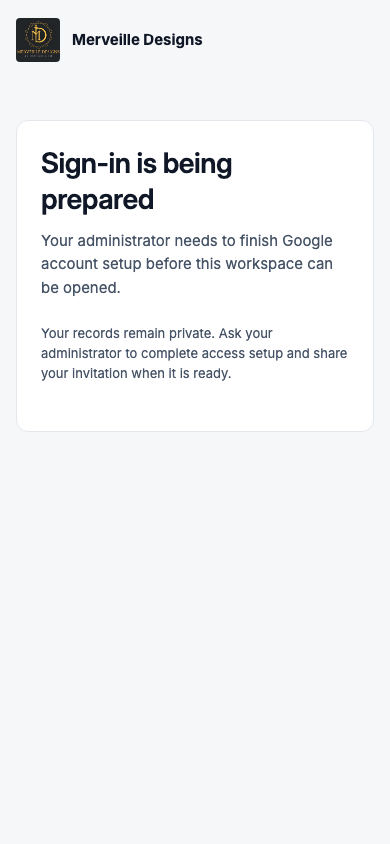
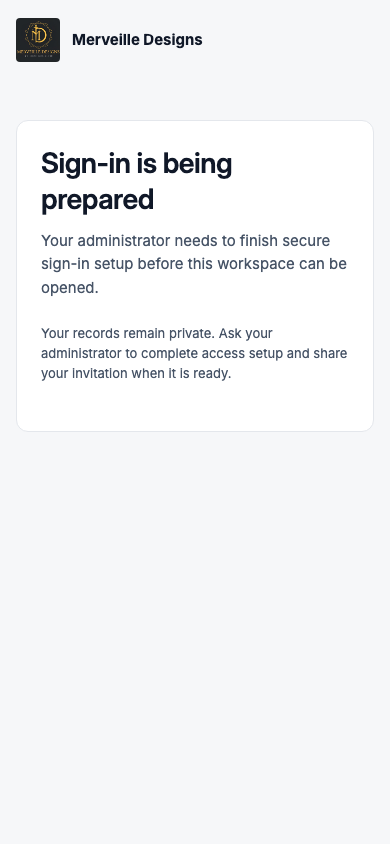
Record R05 operations evidence and company-account handoff

Changed region(s): [[0.0923, 0.2773, 0.8923, 0.3697]]

diff --git a/docs/operations/real-account-handoff.md b/docs/operations/real-account-handoff.md
@@ -1,10 +1,12 @@
 # Real-account testing handoff
 
+**Latest direction:** The user is moving toward Cloudflare-managed login without Google Cloud configuration, and a separate company-owned Cloudflare deployment. See [company account setup](company-account-setup.md). Staging still uses the previously verified Google method until the prepared native-login policy change is confirmed, saved and tested. The policy-scoped automation credential is prepared for review, not created/configured yet. Historical Google evidence below remains valid for that environment/version only.
+
 The coding agent owns migration/build/regression commands. Jay and the pilot team use their own Google accounts in a browser. No persona selection or impersonation is supported.
 
 ## Current environment
 
-Staging deployment is explicitly authorized for R05. The operator created an isolated APAC D1 database (`merveille-data-staging`) and private R2 bucket (`merveille-files-staging`), and applied all 20 migrations. The remote reconciliation view reports zero errors. Existing preview/production resources were not modified.
+Staging deployment is explicitly authorized for R05. The operator created an isolated APAC D1 database (`merveille-data-staging`) and private R2 bucket (`merveille-files-staging`), and applied all 21 migrations. The remote reconciliation view reports zero errors. Existing preview/production resources were not modified.
 
 The protected staging origin is [merveille-web-staging.rhelo-bible.workers.dev](https://merveille-web-staging.rhelo-bible.workers.dev). Worker version `1da9cec8-e065-4e86-8c46-66e01db7be68` contains the hosted invitation-parser correction. Production and old preview are unchanged. Preview URLs remain disabled; no custom Worker routes exist; the file bucket has no public managed domain.
 
@@ -18,19 +20,21 @@ Jay's bootstrap was explicitly confirmed and accepted through the actual Google-
 
 ## Remaining pilot inputs and admission
 
-Supply the other pilot members' exact Google emails and deliberate roles privately. Do not add identities or addresses to public documentation. The operator must add each email to **both** Google Auth Platform → Audience → Test users and the dedicated staging Access policy, then an active ADMIN creates the application invitation with explicit grants and confirms admission READY. Each tester accepts their own link. No invitation mail sender is configured; copy links privately.
+Supply the other pilot members' exact sign-in emails and deliberate roles privately. The native-login policy amendment and a credential restricted to the single staging invitation policy are prepared in the browser, awaiting required action-time confirmation. Neither has been saved/issued. Existing Google sign-in remains working; the new One-time PIN provider is not yet attached to this app.
 
-Automatic Access reconciliation is not configured: the current Wrangler OAuth lacks Access-management scope, and no extra long-lived Access API token was created. Invitations therefore remain awaiting setup until the operator configures exact-email admission and confirms it. A future narrowly scoped policy credential can enable reconciliation; credentials belong in platform secrets. Google testing-mode user admission remains a separate provider step.
+Automatic admission is implemented on invitation creation/reissue/revocation and suspension, plus a scheduled retry path and browser **Retry invitation access** action. It is not configured until the policy-only credential is installed in platform secrets and its real provider update is verified. No credential has been created. The implementation refuses a shared policy, preserves other MFA/session/approval and exclusion controls, serializes updates, and marks only the synchronized invitation snapshot ready. Provider failure does not undo a saved invitation or restore revoked application privileges.
 
-Second-admin delegation, other actual-role tests, revocation with an open session, real private-file transfers and full business UAT remain pending. No real client records or provider messages were used.
+After the approved Cloudflare-native method and policy credential are verified, routine invitations should be administered entirely through People & access. Email-code users do not need Google test-user registration. Each person accepts as themselves with the exact invited address. No invitation mail sender is configured; links are copied privately. Current staging still requires the old provider's admission until migration finishes; do not tell new users that email-code login is already live.
+
+Second-admin delegation, other actual-role tests, revocation with an open session, real project-file transfers and full business UAT remain pending.
 
 ## Setup the operator must complete
 
 1. Use the authorized isolated staging resources and canonical HTTPS hostname above. Keep the existing production records intact. Configure the named Wrangler environment with real resource IDs and the exact `APP_ORIGIN`; never deploy placeholder IDs or the local default to a hosted target.
-2. Set up Google through Cloudflare Access using [Cloudflare's personal Google account instructions](https://developers.cloudflare.com/cloudflare-one/integrations/identity-providers/google/). Gmail and Workspace addresses work. Use identity/profile scopes only; no Gmail/mailbox access. Store Google client secrets in the provider dashboard, not Git or chat. Register the actual team origin and callback `https://<team>.cloudflareaccess.com/cdn-cgi/access/callback`.
-3. Protect **every** review ingress/hostname with the selected Google provider and exact invited emails; no domain-wide/everyone/bypass policies. Keep workers.dev/version URLs disabled unless explicitly protected. Configure issuer and audience. JWT verification fetches only that trusted issuer's JWKS and checks RS256 signature, human subject/email, issuer, audience and time claims.
-4. Provision a dedicated exact-email Access policy for the app. Configure the optional narrowly scoped reconciliation credential in platform secret storage (`ACCESS_API_TOKEN`), plus account/app/policy/Google-IdP IDs. Scheduled reconciliation updates that dedicated policy, retains pending errors and never treats D1 writes as edge provisioning. An operator may instead confirm the exact-email admission manually; the invitation remains “Awaiting access setup” until confirmed. Application revocation is immediate even if edge synchronization fails. Operator session revocation remains part of the provider procedure.
-5. Apply migrations 0012–0020 to a reviewed copy of existing data, then the authorized review environment. Existing duplicate journals/payroll periods or duplicate project snag references intentionally fail protection installation; inspect the read-only `financial_reconciliation_errors` view and reconcile with the responsible administrator. Do not delete or invent money to make migration succeed. Review the local upgrade/restore evidence before remote migration.
+2. Follow the latest [company account setup](company-account-setup.md). Cloudflare-managed email-code sign-in removes the Google Cloud dependency; native Cloudflare-account sign-in is a distinct alternative. Configure the selected provider deliberately, verify the actual login and retain signed Access JWT validation. The earlier verified Google setup remains historical evidence, not a required company setup step.
+3. Protect **every** review ingress/hostname with the selected identity provider and exact invited emails; no domain-wide/everyone/bypass policies. Keep workers.dev/version URLs disabled unless explicitly protected. Configure issuer and audience. JWT verification fetches only that trusted issuer's JWKS and checks RS256 signature, human subject/email, issuer, audience and time claims.
+4. Provision a dedicated exact-email Access policy for the app. Configure the optional narrowly scoped reconciliation credential in platform secret storage (`ACCESS_API_TOKEN`), plus account/app/policy/selected-IdP IDs. Scheduled reconciliation updates that dedicated policy, retains pending errors and never treats D1 writes as edge provisioning. An operator may instead confirm the exact-email admission manually; the invitation remains “Awaiting access setup” until confirmed. Application revocation is immediate even if edge synchronization fails. Operator session revocation remains part of the provider procedure.
+5. Apply migrations 0012–0021 to a reviewed copy of existing data, then the authorized review environment. Existing duplicate journals/payroll periods or duplicate project snag references intentionally fail protection installation; inspect the read-only `financial_reconciliation_errors` view and reconcile with the responsible administrator. Do not delete or invent money to make migration succeed. Review the local upgrade/restore evidence before remote migration.
 6. Prepare the private setup JSON with the exact email and approved review origin; set `accessAdmissionConfirmed:true` only after real admission is verified. Run `node scripts/bootstrap-admin.mjs staging .private/admin-setup.json` for the intended configured environment. This is an operator-only command, not a public endpoint. It writes a digest-only expiring singleton invitation atomically. The shareable link is written only to `.private/bootstrap-link.txt`. Do not send it in logs or commit it. Successful acceptance cannot be reset by deleting the temporary setup input.
 7. Deploy the reviewed artifact only with target authorization, then validate actual Google admission, alternate ingress denial, invited identity matching, membership revocation and private file/cache behavior. A built bundle or the local fixture browser harness does not prove these hosted properties.
 
@@ -64,4 +68,4 @@ For changed Access subjects, use `scripts/recover-identity.mjs` only with authen
 
 ## Release gate
 
-Hosted Google onboarding, second-admin delegation, all distinct real-role passes, hosted Queue/provider delivery, remote restore remain **blocked/pending**, not passed. Local implementation and tests are evidence for their stated scope only.
+Hosted Native-provider onboarding, second-admin delegation, all distinct real-role passes, hosted Queue/provider delivery, remote restore remain **blocked/pending**, not passed. Local implementation and tests are evidence for their stated scope only.

diff --git a/docs/evidence/remediation/session.md b/docs/evidence/remediation/session.md
@@ -81,3 +81,20 @@ User explicitly authorized isolated protected staging and Google Access setup. S
 - Current gate: protected staging usable by Jay. Other pilot emails/roles requested privately; Google testing and exact-email edge admission plus per-person invitations pending. Access reconciliation token absent; manual operator admission is documented. Jobs/provider/remote restore and full team acceptance remain pending.
 
 Staging configuration and invitation repair source checkpoint: `41370d9`. No personal addresses or OAuth secrets committed. Documentation checker passed after the hosted evidence update.
+
+### R05 independent operations and company-owned deployment amendment
+
+The user changed the authentication goal: remove the Google Cloud/OAuth dependency, make daily people administration browser-only, and ultimately clone/setup the app in the sister/company's own Cloudflare account. Jay's current account remains development/staging. The amendment is recorded in AGENTS, remediation 01/02 and the new company-account operator guide; unchanged authority/workflow rules remain binding.
+
+Source checkpoint `8e834b6`; web Worker `601c9003-2621-4d3f-8b06-a357ba93ea1e`; jobs Worker `c2f4b42c-6fb9-4252-b0bd-546f9f4e4c2c`.
+
+- Account-neutral sign-in/invitation copy and People retry controls are deployed. Invitation create/reissue/revoke and suspension now attempt dedicated-policy reconciliation; provider failure preserves saved application state. Migration 0021 serializes syncs with leases. Only the synchronized snapshot becomes READY; in-flight new invites remain pending, matching revocations complete correctly, and bounded parameter chunks avoid an application user cap. The synchronizer reads the reusable policy, refuses shared policies, and preserves MFA/session/approval, additional Require and Exclude controls. The new provider-neutral `ACCESS_IDP_ID` has a temporary legacy Google fallback for the still-working old staging configuration.
+- `npm test`: 106 tests in 22 files PASS. New real SQLite service case covers concurrent policy updates, in-flight invitation readiness, completed revocation jobs, retained MFA/exclusion controls and shared-policy refusal. One earlier run failed only because an old assertion matched Google-specific wording; changed it to assert the actual WRONG_ACCOUNT error code and reran successfully. `npm run typecheck` and final `npm run build:worker` PASS. Nine isolated workerd permission/money/file/recovery checks pass with all 21 migrations. Three focused local invitation-link/POST cases pass with transport fixtures. Final built local Worker UI harness: 112 checks, no overflow or JavaScript errors; fixtures are not real-person acceptance. Actual hosted People dialog shows the neutral exact-email field and explicit permissions, without submitting an unknown person's invitation.
+- Applied 0021 to isolated remote staging; actual D1 INSERT/ON CONFLICT/RETURNING lease probe passed and removed only its own temporary lease. No users or grants were changed by this probe.
+- Created dedicated staging notification and dead-letter queues. `wrangler deploy --config workers/jobs/wrangler.jsonc --env staging` and `wrangler queues info` verify producer, consumer, retry/DLQ configuration and the 15-minute schedule. Jobs Worker has no public or preview ingress. A fictional WHATSAPP notification for an existing disabled/quarantined identity and a nonexistent obligation was queued through the real Cloudflare Queue. Actual consumer execution outcome was OK with no exceptions; D1 status became SUPPRESSED / ACCESS_OR_OBLIGATION_CHANGED. Re-publishing the same ID left exactly one suppressed record, with no provider message. This verifies actual consumer authorization/idempotency, not forced retry/DLQ or WhatsApp delivery. No real messages sent. Scheduled execution is tracked separately from registration below.
[1 lines of base64/hex data omitted]
+- Cloudflare One-time PIN provider was made available, but the dedicated portal policy draft has NOT been saved and the app has NOT switched providers. Existing verified Google login remains active. Required action-time security confirmation is pending for the native email-code policy switch. A second browser review prepares an account-owned credential restricted to the single staging policy via Specified Access Policies / Individual Access Policy Admin, no other account permissions; it has NOT been created or installed. Therefore automatic admission remains unconfigured, not passed. No claim of a completed nontechnical handoff or actual OTP login is made.
+- Provider isolation review found OpenSEO and Rhelo apps used accept-all-identity-providers. Newly added global providers were inherited there; this was corrected by explicitly selecting only their original Cloudflare provider. Saved configuration success was observed for both; existing email policies, recipients, routes, data and application code were unchanged. New portal methods can no longer appear automatically in those apps. Screenshots of the review and existing-provider isolation are private, not public evidence.
+- Remaining gates: native login/policy credential confirmations and real verification, the sister's/company's separate account installation, exact pilot emails/roles and real multi-user scenarios, forced hosted retry/DLQ/webhook/provider delivery, and populated remote business/file recovery. Existing Google/bootstrap checks remain historical evidence for that provider/version. New company installation gets fresh infrastructure, a new exact-email bootstrap and deliberately separate ADMIN/OWNER/project grants; no credentials or identities are copied by cloning Git.
+
+Final bounded schedule observation: the 00:15 IST poll still showed the probe outbox PENDING, with no scheduled event in the private tail. The configured Cron is deployed but execution is NOT marked passed; recheck propagation/dispatch next session. Queue consumer execution remains independently passed. Final source/build is frozen at the versions above; documentation checker passes.

diff --git a/task.md b/task.md
@@ -6,25 +6,25 @@ Updated 24 November 2026. The application foundation exists on `implement/mervei
 
 | Stage | Work | Implementation | Local verification | Hosted verification | Team acceptance |
 |---|---|---|---|---|---|
-| R00 | Baseline and demo/diagnostic containment | Passed | Passed | Blocked | Not started |
-| R01 | Real Google accounts and admin lifecycle | Passed | Passed | Blocked | Blocked |
-| R02 | Neutral shared UI and reference screens | Passed | Passed | Blocked | Blocked |
-| R03 | Functional integrity, jobs and recovery | Passed | Passed | Blocked | Blocked |
-| R04 | All routes and interactions | Passed | Passed | Blocked | Blocked |
-| R05 | Integrated verification and real-person handoff | Passed: handoff prepared | Passed | Blocked | Blocked |
+| R00 | Baseline and demo/diagnostic containment | Passed | Passed | In progress | Not started |
+| R01 | Real accounts and admin lifecycle | Passed | Passed | In progress | Blocked |
+| R02 | Neutral shared UI and reference screens | Passed | Passed | In progress | Blocked |
+| R03 | Functional integrity, jobs and recovery | Passed | Passed | In progress | Blocked |
+| R04 | All routes and interactions | Passed | Passed | In progress | Blocked |
+| R05 | Integrated verification and real-person handoff | Passed: handoff prepared | Passed | In progress | In progress |
 
 Dependencies and exact contracts: [active manifest](docs/remediation/manifest.json), [delivery gates](docs/remediation/05-delivery-and-acceptance.md).
 
 ## Current checkpoint
 
-- Application source commit: `41370d9` on `implement/merveille-portal`. Existing Next/OpenNext/Cloudflare/Wrangler foundation and logo preserved. Earlier commits contain real identity, money/file/state repair, durable jobs and shared neutral UI.
-- Current work: protected staging Google login and initial ADMIN onboarding verified. R05 team acceptance and remaining hosted business/integration gates are in progress.
-- Actual checks: typecheck passed; 105 tests across 21 files passed; optimized Workers build passed; nine isolated workerd identity/concurrency/rollback/recovery checks passed through migration 0020; 11 actual private HTTP/CSRF/diagnostic/cache checks passed; generated binding check and jobs dry run passed; dependency audit reports zero advisories; documentation checker passes. See [session evidence](docs/evidence/remediation/session.md).
+- Application source commit: `8e834b6` on `implement/merveille-portal`. Existing Next/OpenNext/Cloudflare/Wrangler foundation and logo preserved. Earlier commits contain real identity, money/file/state repair, durable jobs and shared neutral UI.
+- Current work: R05 independent checks extended: real staged Queue delivery/suppression/replay, private D1/R2 backup transport and quarantined restore, account-neutral browser administration and serialized automatic invitation admission. Google-to-Cloudflare-native policy migration and policy-only credential are prepared but await action-time confirmation; Google login remains active.
+- Actual checks: typecheck passed; 106 tests across 22 files passed; optimized Workers build passed; nine isolated workerd identity/concurrency/rollback/recovery checks passed through migration 0021; 11 actual private HTTP/CSRF/diagnostic/cache checks passed; generated binding check and jobs dry run passed; dependency audit reports zero advisories; documentation checker passes. See [session evidence](docs/evidence/remediation/session.md).
 - Browser: final built frontend passed 112 recorded checks covering all 29 pages at 1440×900, 1024×768 and 390×844, pure external-client navigation, 13 focused interactions/failures and setup states; no overflow/JavaScript errors. Reference screenshots were inspected. Tests use fictional browser-only API fixtures; actual Google/hosted business journeys remain unverified.
-- Next exact action: receive the other pilot Google emails and deliberate roles privately; add Google test-user and exact-email staging policy admission, create explicit application invitations, and have each person accept/test as themselves. No new Access API token is configured; admission is manual.
-- Hosted state: protected staging at https://merveille-web-staging.rhelo-bible.workers.dev, Worker version `1da9cec8-e065-4e86-8c46-66e01db7be68`; actual Google test/login, initial ADMIN acceptance, sign-out/re-entry, used-link rejection and ADMIN-vs-OWNER denial verified. Preview URLs disabled, private bucket, isolated all-20-migration D1; old preview unchanged.
+- Next exact action: receive the two pending security confirmations (native email-code login and single-policy automation credential), finish provider/policy/secret setup and verify a real login/sync; then onboard the other pilot emails/roles privately. The sister/company will own a separate installation; see company-account-setup.md.
+- Hosted state: protected staging at https://merveille-web-staging.rhelo-bible.workers.dev, Worker version `601c9003-2621-4d3f-8b06-a357ba93ea1e`; actual Google test/login, initial ADMIN acceptance, sign-out/re-entry, used-link rejection and ADMIN-vs-OWNER denial verified. Preview URLs disabled, private bucket, isolated all-21-migration D1; old preview unchanged.
 - Private input: Jay's exact supplied Google email is in ignored protected setup data, absent from public source/evidence. Initial staging ADMIN activation was explicitly confirmed; no extra capability was granted.
-- External gates: other pilot emails/roles and Google/edge admission, second-admin/real-role UAT, hosted Queue/provider/recovery checks. No release acceptance inferred from initial login. Use the [real-account handoff](docs/operations/real-account-handoff.md).
+- External gates: native login/policy-token confirmations and hosted sync/login checks, other pilot emails/roles, second-admin/real-role UAT, real provider/webhook/forced retry-DLQ tests and full populated remote business recovery. Queue consumer and private backup transport/quarantine now have hosted evidence; Cron registration is verified but first execution is still under observation. No release acceptance inferred from initial login. Use the [real-account handoff](docs/operations/real-account-handoff.md).
 - Authorized isolated staging resources, migrations, protected deployment, Google IdP/app/policy and initial ADMIN bootstrap completed. No production mutations or WhatsApp sends. Historical P00–P14 release claims remain superseded; complete business acceptance scenarios remain unrun.
 
 ## Historical P00–P14 implementation records

diff --git a/docs/operations/company-account-setup.md b/docs/operations/company-account-setup.md
@@ -1,0 +1,31 @@
+# Move the portal to the company's Cloudflare account
+
+## Ownership and daily use
+
+Jay's account hosts development/staging only. The user will create a separate Cloudflare account owned by the sister/company, clone this repository, and perform the one-time infrastructure setup there. The sister's day-to-day work must use the portal in a browser: invite a person, assign explicit capabilities/projects, copy a private invitation link, and suspend or remove access. She should not need Wrangler, SQL, Google Cloud, or code for those operations.
+
+The latest user instruction supersedes Google-only requirements: use Cloudflare-managed identity. Cloudflare's own identity provider requires a Cloudflare account; email-code login works with an ordinary invited mailbox. The intended simple team option is Cloudflare email codes, with exact-email admission. The staging policy change remains subject to the current session's action-time confirmation and a real login check. No broad domain/everyone policy is authorized. Infrastructure account membership must not silently grant portal ADMIN, OWNER, or project roles.
+
+## One-time setup by the technical operator
+
+1. Sign in to the company-owned Cloudflare account. Confirm `npx wrangler whoami` and the intended account ID. This repository's current account ID, database IDs, Access identifiers and bucket/queue names point to Jay's staging resources. Cloning code does **not** move them. Replace them deliberately before any company deployment; do not reuse Jay's API token, issuer, audience, bootstrap input or bindings.
+2. Create a fresh Zero Trust team and the chosen Cloudflare-managed login method. For email codes, register One-time PIN; no Google OAuth project/client is necessary. Use a dedicated portal Access app and exact invited-email policy, with the selected login method required. Protect all Worker ingress; disable preview URLs.
+3. Create the company environment's own D1, private project-file R2, private backup R2, notification Queue and dead-letter Queue. Set exact HTTPS origin, issuer, audience, Access account/app/policy/provider IDs, locale/timezone and disabled WhatsApp mode in named Wrangler environments. Jobs use that same company database and their own queues. Keep public R2 access off.
+4. Apply all committed migrations to the new empty database, build for Workers and deploy only the selected named environment. The jobs Worker has no public routes and runs its configured schedule and queue consumer. Verify actual runtime behavior; a Node development server is insufficient.
+5. Configure one policy-management credential in platform secret storage as `ACCESS_API_TOKEN` on the web/jobs Workers, using Cloudflare's **Specified Access Policies → Individual Access Policy Admin** scope for the dedicated invitation policy only. `ACCESS_IDP_ID` selects the permitted provider. This is one-time operator work: creating/reissuing/revoking invitations should reconcile admission automatically, with the scheduled worker retrying. Do not hand over a system that still depends on manual Access edits for routine invitations. Verify the provider update succeeds before declaring this handoff complete; local mocks do not prove token permissions or API compatibility.
+6. Obtain the sister's exact sign-in email privately. Prepare a fresh protected bootstrap input with the company origin and verified admission; run `scripts/bootstrap-admin.mjs` for that environment once. She accepts as herself. Initial grant is ADMIN only. If she also needs OWNER or project MANAGER authority, make those separate explicit audited grants. Add a separately authorized backup administrator; never share a login.
+7. Run the browser-only acceptance walkthrough and a private backup/restore drill before real company records. Keep restored identities/memberships quarantined until current access is reconciled. Confirm automatic invitation admission, wrong-account rejection, suspension, private downloads and permission boundaries on the company deployment.
+
+## Existing staging records
+
+A fresh company installation is the default. No transfer of Jay's staging users, identities, fictional projects or business records is implied. If historical records must move, agree the precise source/target and migration scope first, preserve IDs/history, perform an isolated rehearsal, reconcile financial totals/file bytes and re-establish identities explicitly. Never link by email alone or restore expired invitations as active.
+
+## Browser instructions for the sister
+
+- Open the portal and sign in with the exact invited email using its configured Cloudflare login.
+- Under **People & access**, choose **Invite person**, enter their name/email, and assign only the capabilities and projects needed.
+- When access is ready, copy the invitation link and share it privately. The portal does not claim to have emailed it.
+- If access is still being prepared, use **Retry invitation access**. Persistent errors go to the technical setup operator; they must not require her to edit Cloudflare policies or code.
+- Use **Manage access** for role changes/suspension. ADMIN and OWNER remain separate. Keep a second authorized administrator for continuity.
+
+Production infrastructure configuration, provider credentials and recovery remain operator responsibilities. They are distinct from routine company administration.

diff --git a/.agents/skills/build-merveille/SKILL.md b/.agents/skills/build-merveille/SKILL.md
@@ -11,9 +11,9 @@ This is a repository-local Antigravity skill, versioned with the project. It is 
 2. The app exists on `implement/merveille-portal`. Inspect branch, local changes and actual evidence. Preserve existing work; never recreate the scaffold from the default planning branch.
 3. Read the [current work order](../../../docs/remediation/README.md) and its ordered files. Select the next ready stage in [the remediation manifest](../../../docs/remediation/manifest.json). R00–R05 supersedes P00-first execution and old visual defaults.
 4. Load relevant screen/workflow/permission files progressively. Preserve consultant approval then manager drawing release, publication/file boundaries, commercial gates and independent ADMIN/OWNER/MANAGER authority.
-5. Implement complete authorized persistence, server behavior and accessible shared UI. Use the neutral premium system and unchanged compact logo. Real Google users receive administrator-managed grants; no deployed fixture login, impersonation or view/role switcher.
+5. Implement complete authorized persistence, server behavior and accessible shared UI. Use the neutral premium system and unchanged compact logo. Real invited users receive administrator-managed grants; no deployed fixture login, impersonation or view/role switcher.
 6. Follow [skills and tools](../../../docs/implementation/skills-and-tools.md) for any missing reviewed project-local skills. Retain the existing Next/OpenNext and Cloudflare/Wrangler stack unless a demonstrated issue requires a documented change.
-7. Run meaningful targeted checks and inspect actual browser screens. Fixtures and fake providers belong only in isolated developer verification. Hosted team UAT uses actual invited Google accounts and fictional business records.
+7. Run meaningful targeted checks and inspect actual browser screens. Fixtures and fake providers belong only in isolated developer verification. Hosted team UAT uses actual invited Cloudflare Access identities and fictional business records.
 8. Record commit/environment, changed paths, commands/results, acceptance IDs, screenshots and limitations. Update task.md and the remediation manifest; separate code, local, hosted and team status. Never convert a blocked setup into a pass.
 9. Continue to the next ready stage without routine permission loops. Missing provider inputs block only dependent integration; finish independent work and keep unavailable identity/delivery fail-closed. Ask privately for exact setup identities when needed; never infer Jay's email.
 10. At a context limit, save one exact next action and unresolved dependencies. On completion update walkthrough.md with actual results and assess the [delivery gates](../../../docs/remediation/05-delivery-and-acceptance.md).

diff --git a/AGENTS.md b/AGENTS.md
@@ -18,7 +18,7 @@ Follow system/developer instructions and the user's latest instructions. Within 
 
 ## Real people and access
 
-Use individual Google accounts for invited Gmail/Workspace addresses. Jay is the initial ADMIN; obtain his exact email privately when setup requires it. Bootstrap once through authenticated, exact-email, atomic acceptance. Never use first-signup-becomes-admin.
+Latest user amendment: use Cloudflare-managed sign-in for invited individual email addresses; remove the dependency on a company Google Cloud/OAuth project. Cloudflare email-code login is the proposed simple team method; configure and verify actual provider admission before claiming it works. Jay's account is temporary staging; the sister/company will own a separate Cloudflare installation. See docs/operations/company-account-setup.md. Jay is the initial ADMIN; obtain his exact email privately when setup requires it. Bootstrap once through authenticated, exact-email, atomic acceptance. Never use first-signup-becomes-admin.
 
 Remove deployed demo logins, role/view switching, impersonation and synthetic identity fallbacks, including previews. Fixtures belong only in an isolated automated test harness. Keep ordinary project switching, actual account identity/sign-out and administrator role/project editing.
 
@@ -53,6 +53,6 @@ Follow [03 — Premium interface](docs/remediation/03-premium-interface.md): whi
 
 Implement all routes, not only three attractive reference screens. Use actual browser review, truthful loading/error/empty states, meaningful file/photo previews and working keyboard/dialog behavior. Do not expose developer acceptance IDs or runtime jargon in product flows.
 
-The coding agent runs targeted regression/build checks. Jay and the team test through real Google accounts in a browser; no terminal work or impersonation is required from them. Record untested roles and blocked hosted checks honestly.
+The coding agent runs targeted regression/build checks. Jay and the team test through their own real configured Cloudflare Access identities in a browser; no terminal work or impersonation is required from them. Record untested roles and blocked hosted checks honestly.
 
 Continue independent implementation when credentials block one integration. Keep dependent features fail-closed and report the exact input needed. Production changes, messages and destructive actions follow actual session authorization, not a blanket permission inferred from these files.

diff --git a/docs/remediation/02-identity-and-real-user-testing.md b/docs/remediation/02-identity-and-real-user-testing.md
@@ -1,5 +1,7 @@
 # Real accounts, administration and acceptance testing
 
+**Current amendment:** The user now permits Cloudflare-managed sign-in with individual invited email identities; Google Cloud/OAuth is not required for the eventual company installation. The same exact-email invitation, signed Access JWT, immutable issuer/subject binding, independent capabilities and revocation rules below still apply. See [company account setup](../operations/company-account-setup.md). Provider changes must not silently relink identities by email.
+
 ## Outcome and scope
 
 Merveille Designs must work with each person's own Google account. Jay is the initial administrator; he can invite another administrator, teammates, consultants and client contacts. Three people form the initial testing group, not a user limit. Keep Cloudflare Access, Workers, Wrangler, D1 and private R2; application permissions remain in D1.

diff --git a/docs/remediation/01-product-amendment.md b/docs/remediation/01-product-amendment.md
@@ -1,5 +1,7 @@
 # Product amendment — existing foundation, premium interface, real people
 
+**Later user amendment (24 November 2026):** Cloudflare-managed authentication replaces the Google-only constraint. Jay's account remains build/staging; the company will have its own Cloudflare account and deployment. Ordinary company administration must be browser-only, with automatic invitation admission after one-time operator setup. See [company account setup](../operations/company-account-setup.md). Keep earlier Google setup/evidence as history, not a continuing dependency.
+
 Recorded **24 November 2026** from the user's latest correction. This document takes precedence over conflicting earlier presentation, demo-login and first-build instructions. It changes how the existing product is delivered and accessed; it does not remove the agreed business workflows.
 
 ## Confirmed direction
